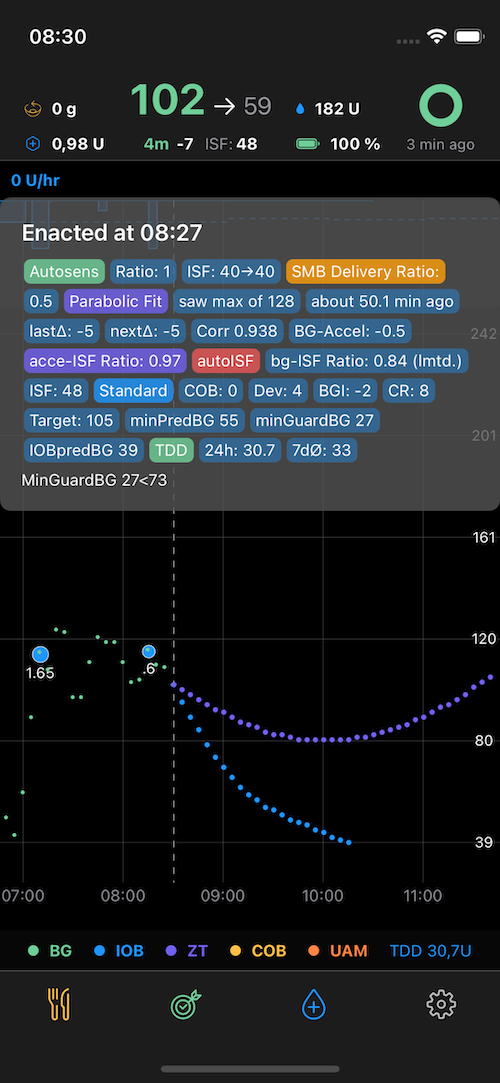
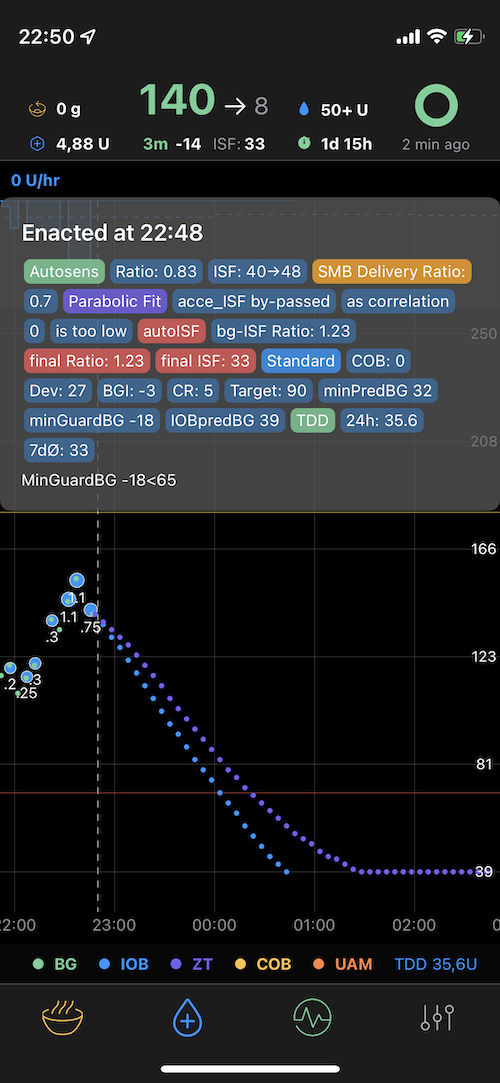
Update README.md Add files via upload

diff --git a/README.md b/README.md
@@ -14,7 +14,7 @@ autoISF remains stable in v2.2.6 However I have added [Jons](https://github.com/
 
 AutoISF with TDD in pop-up and in legend (bottom right corner)
 
-![view FAX-TDD](screen-FAX_aisf2.3_dynisf1.0.png)
+![view FAX-TDD](screen-FAX_aisf2.3_dynisf1.0.png) ![view watch-TDD](screenWatch_TDD.png)
 
 DynISF output
 
